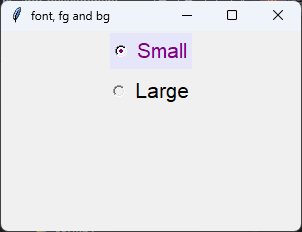
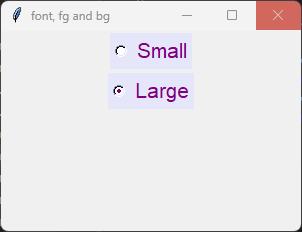
rbi

diff --git a/docs/tk_widgets/tk_radiobutton.rst b/docs/tk_widgets/tk_radiobutton.rst
@@ -328,7 +328,7 @@ get and set (the variable)
 
     root.mainloop()
 
-.. image:: files/radiobutton/10_get_and_set.png
+.. image:: files/radiobutton/10_get_and_set_the_variable.png
     :align: center
 
 
